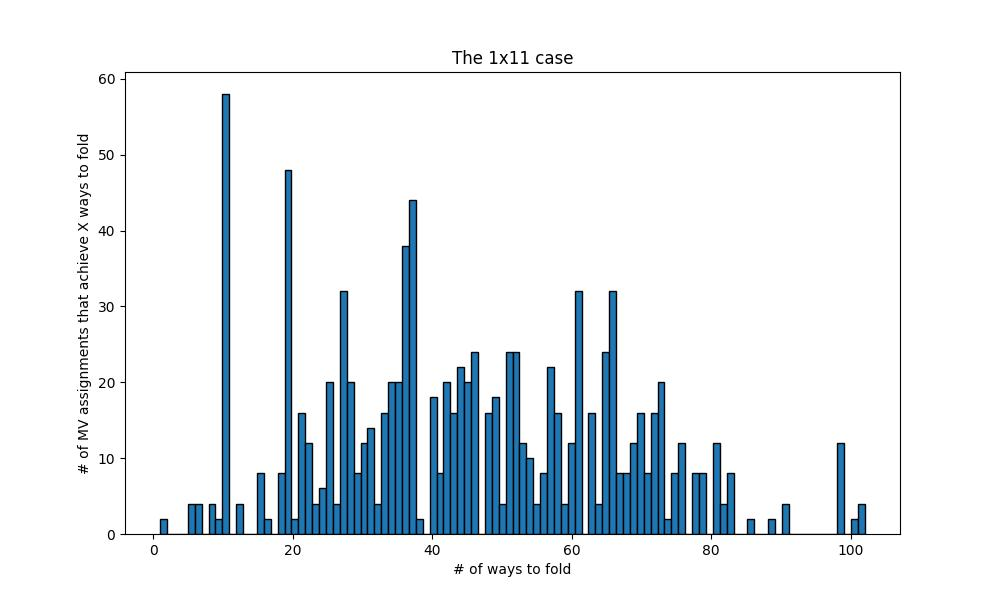
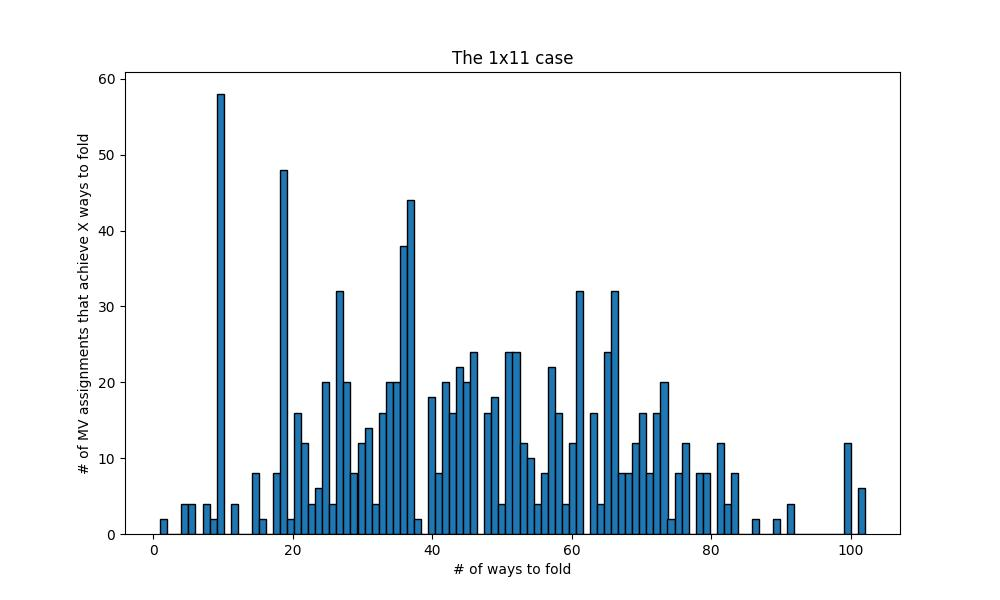
figures and new stats

Changed region(s): [[0.155, 0.15, 0.806, 0.9], [0.837, 0.72, 0.868, 0.9]]

diff --git a/stamp_meander.py b/stamp_meander.py
@@ -53,5 +53,16 @@ def get_random_assignment(n):
         s += random.choice(['M', 'V'])
     return s
 
-for k in range(1, 15):
-    print(run_one('M' + 'V' * k))
+x = []
+y = []
+n = 20
+for _ in range(10000):
+    s = get_random_assignment(n)
+    x.append(run_one(s))
+    y.append(run_one(s + 'M') / x[-1])
+
+plt.scatter(x, y)
+plt.xlabel('count(s)')
+plt.ylabel('count(s + \'M\') / counts(s)')
+plt.title('n = {}'.format(n) + ', 1000 random trials')
+plt.show()

diff --git a/count_stats.py b/count_stats.py
@@ -36,7 +36,7 @@ for n in range(4, N+1):
 
 for n in range(10, 23):
     plt.figure(figsize=(10, 6))
-    plt.hist(numbers[n], bins= maxes[n], edgecolor='black')
+    plt.hist(numbers[n], bins=min(maxes[n], 100), edgecolor='black')
     plt.xlabel('# of ways to fold')
     plt.ylabel("# of MV assignments that achieve X ways to fold")
     plt.title("The 1x{} case".format(n))
